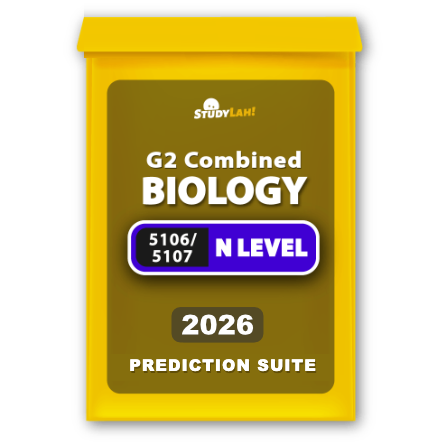
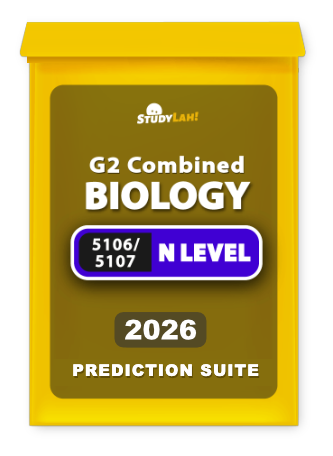
v1.888

diff --git a/src/app/page.tsx b/src/app/page.tsx
@@ -411,7 +411,7 @@ function PackRow() {
     };
   });
   return (
-    <div className="mx-auto grid max-w-4xl grid-cols-3 gap-1 sm:gap-2">
+    <div className="mx-auto grid max-w-4xl grid-cols-3 gap-0.5 sm:gap-1">
       {packs.map((p) =>
         p.img ? (
           <Link
@@ -420,12 +420,12 @@ function PackRow() {
             className="group block"
             aria-label={`${p.name}, 2026 pack`}
           >
-            <div className="relative aspect-square w-full transition-transform duration-300 group-hover:-translate-y-1.5">
+            <div className="relative aspect-[333/456] w-full transition-transform duration-300 group-hover:-translate-y-1.5">
               <Image
                 src={p.img}
                 alt={`${p.name}, StudyLah 2026 pack`}
                 fill
-                sizes="(max-width: 640px) 31vw, 220px"
+                sizes="(max-width: 640px) 33vw, 300px"
                 className="object-contain drop-shadow-2xl"
               />
             </div>